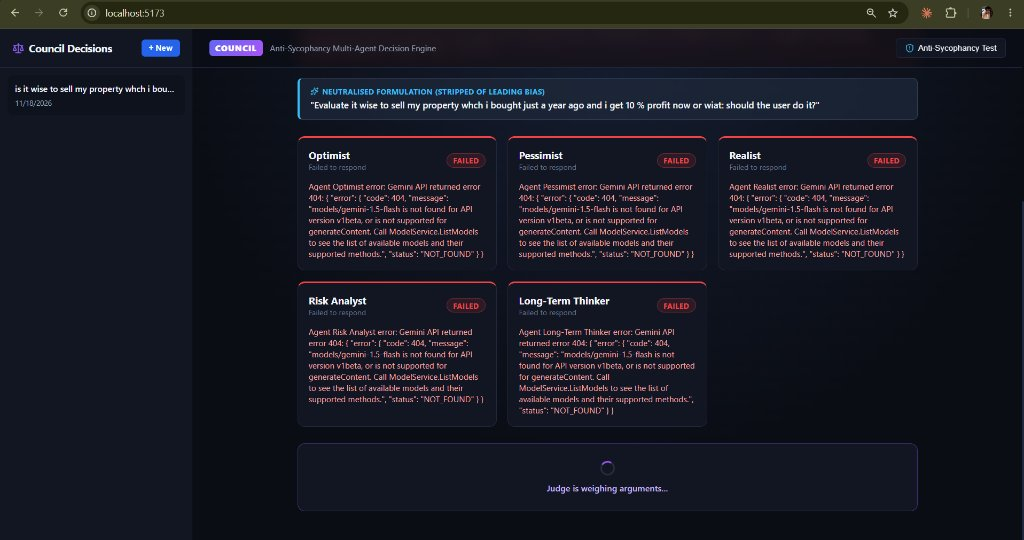
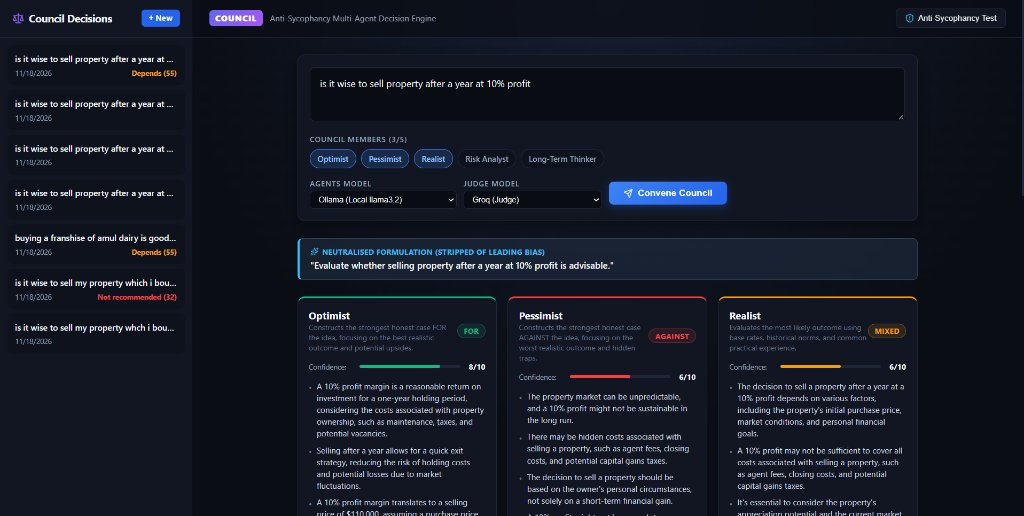
Update screenshots with successful live deliberation and remove .github folder

diff --git a/README.md b/README.md
@@ -7,11 +7,13 @@
 
 ## Screenshots & UI Preview
 
-### Main Interface & Multi-Agent Deliberation
-![Council Overview](docs/screenshots/council_ui_overview.jpg)
-
-### Real-Time Isolated Agent Deliberation
+### 1. Real-Time Isolated Agent Deliberation
+Agents evaluate the neutral proposition concurrently in complete isolation with confidence meters and structured arguments:
 ![Council Live Agents](docs/screenshots/council_live_agents.jpg)
+
+### 2. Supreme Judge Verdict & Synthesis
+The Judge weighs arguments by quality, highlights consensus and disagreements, attributes decisive factors, and specifies conditions to flip the verdict:
+![Council Judge Verdict](docs/screenshots/council_judge_verdict.jpg)
 
 ---
 
